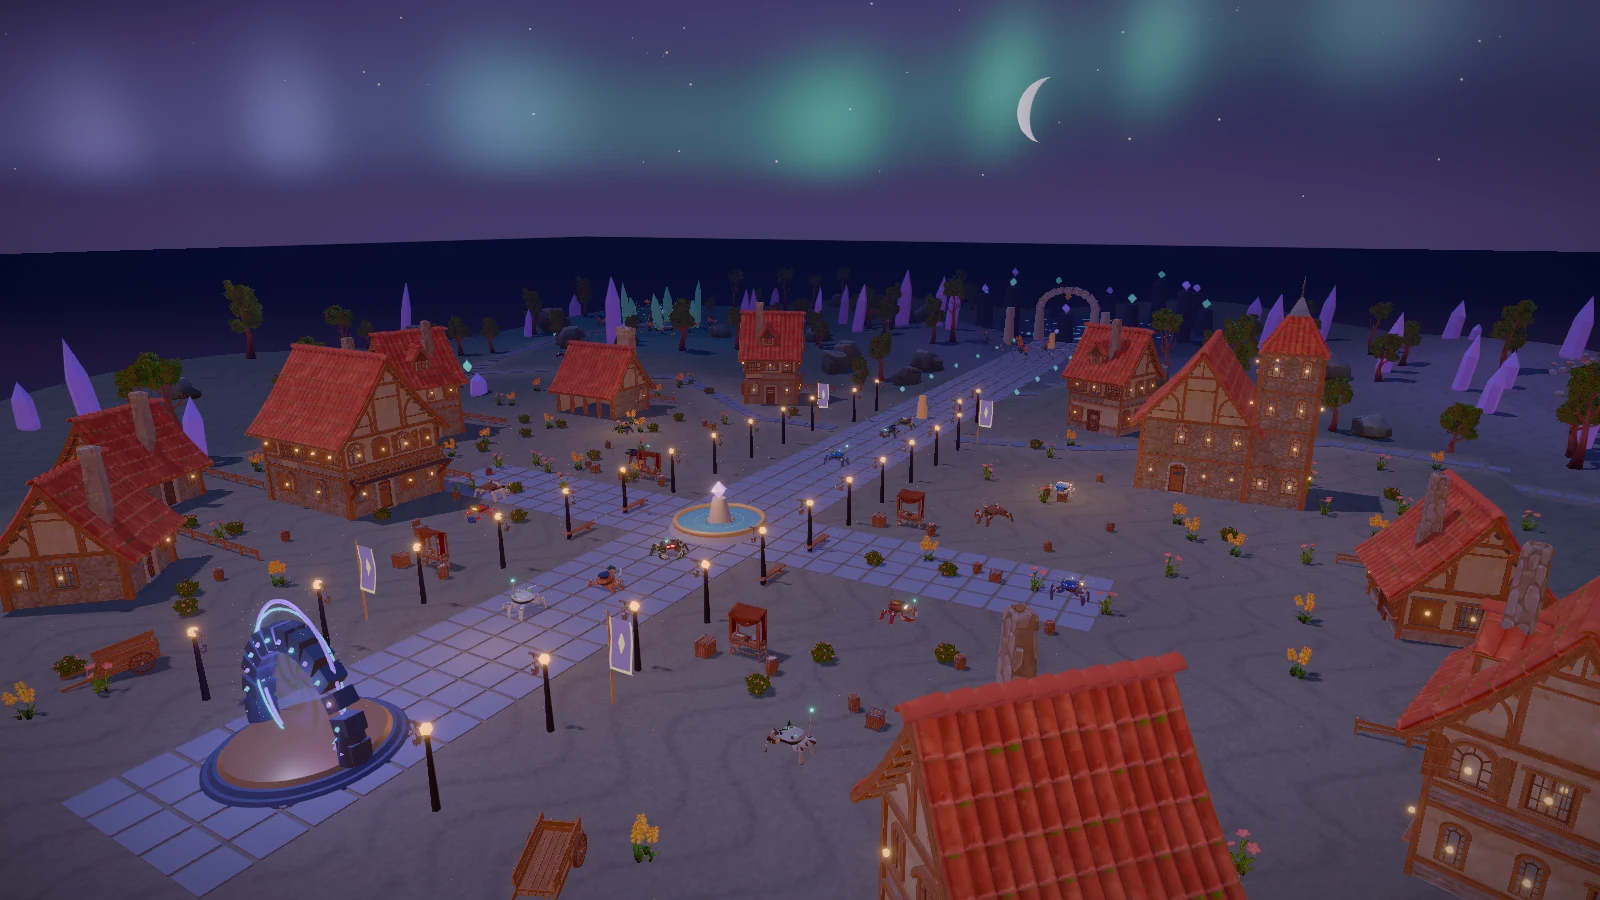
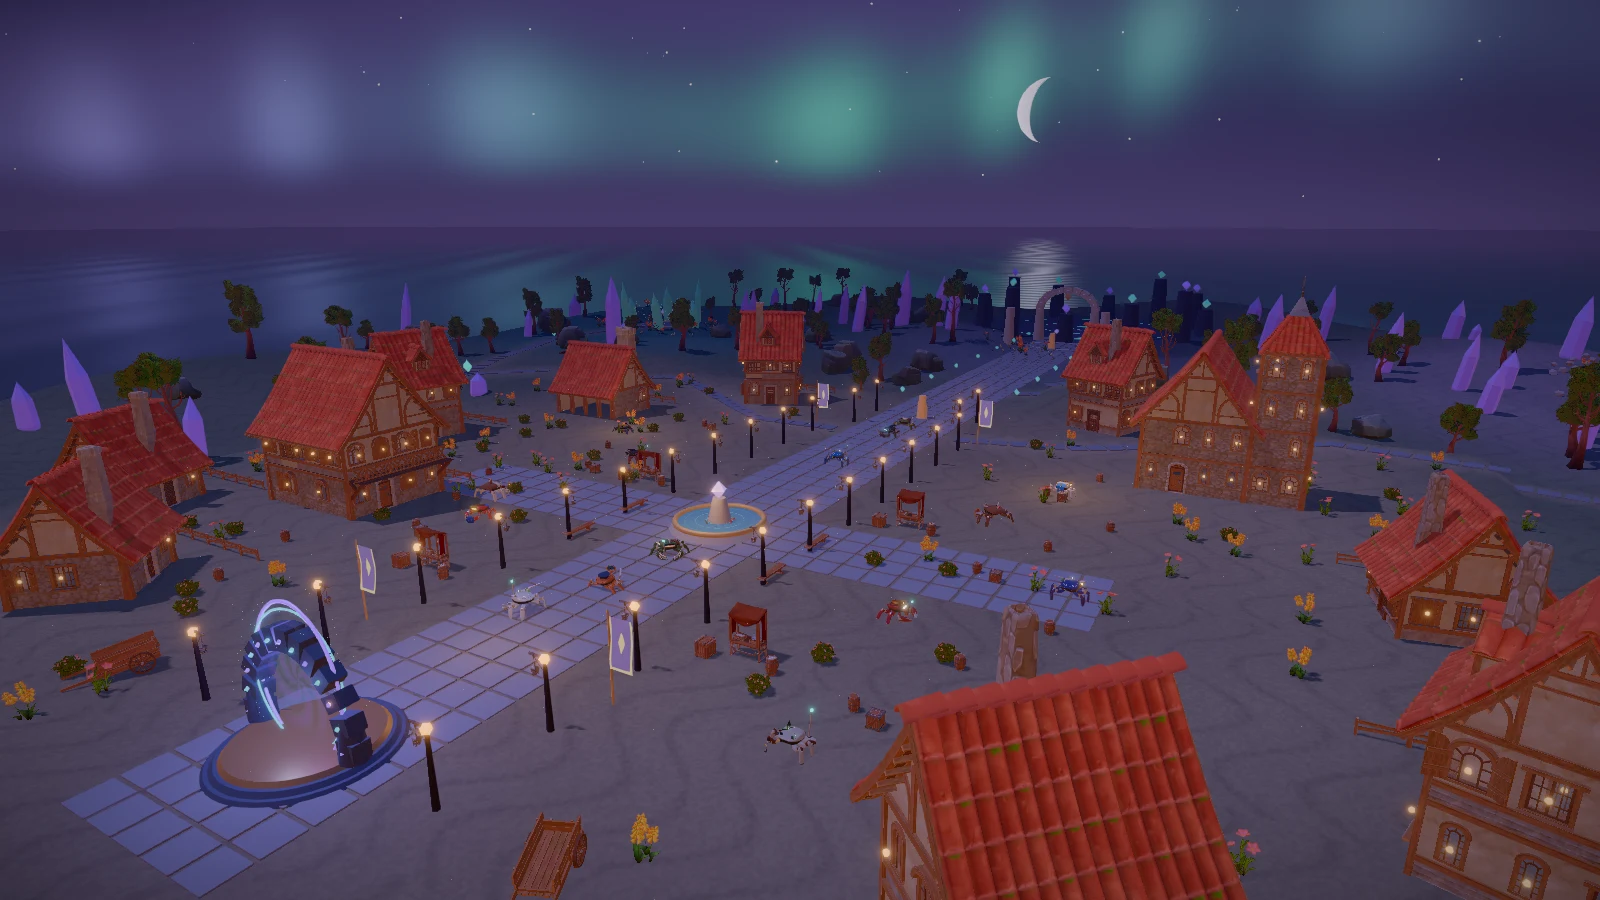
Animate the World II sea with shared sky reflections and coastal foam

Changed region(s): [[0.0, 0.2489, 1.0, 0.4356], [0.4062, 0.5911, 0.4375, 0.6222]]

diff --git a/src/game/starSea.ts b/src/game/starSea.ts
@@ -1,0 +1,63 @@
+import * as THREE from 'three';
+import {STAR_ATMOSPHERE,STAR_MOON_POSITION} from './starAtmosphere';
+
+/** One static plane: animated shading never changes the coast's collision or water level. */
+export class StarSea {
+  readonly root:THREE.Mesh;
+  private readonly time={value:0};
+  constructor(){
+    const geometry=new THREE.PlaneGeometry(4096,4096);geometry.rotateX(-Math.PI/2);
+    const material=new THREE.ShaderMaterial({
+      fog:false,uniforms:{time:this.time,moonDirection:{value:new THREE.Vector3(...STAR_MOON_POSITION).normalize()}},
+      vertexShader:/* glsl */`
+        varying vec3 world;
+        void main(){vec4 p=modelMatrix*vec4(position,1.);world=p.xyz;gl_Position=projectionMatrix*viewMatrix*p;}
+      `,
+      fragmentShader:/* glsl */`
+        varying vec3 world;
+        uniform float time;
+        uniform vec3 moonDirection;
+        ${STAR_ATMOSPHERE}
+        float coastHeight(vec2 p){
+          float r=length(vec2(p.x/115.,(p.y-10.)/140.));
+          float land=3.+sin(p.x*.08)*cos(p.y*.06)*1.8+max(0.,r-.65)*12.-smoothstep(.83,1.04,r)*21.;
+          // The finite terrain ends underwater. Its inland uplift must not create a second coast offshore.
+          return mix(land,-35.,smoothstep(1.05,1.2,r));
+        }
+        void main(){
+          vec3 view=normalize(cameraPosition-world);
+          float distanceToEye=length(cameraPosition.xz-world.xz);
+          float detail=1.-smoothstep(30.,220.,distanceToEye);
+          float p1=dot(world.xz,vec2(.8,.6))*.35-time*.5+sin(world.z*.073+time*.18)*1.3;
+          float p2=dot(world.xz,vec2(-.4,.9))*.48+time*.38+sin(world.x*.053-time*.13)*1.8;
+          float swell=dot(world.xz,vec2(.7,-.5))*.16-time*.24;
+          float wave1=detail*(1.-smoothstep(.45,2.,fwidth(p1)));
+          float wave2=detail*(1.-smoothstep(.45,2.,fwidth(p2)));
+          float broad=1.-smoothstep(.45,2.,fwidth(swell));
+          vec3 normal=normalize(vec3(sin(p1)*.012*wave1+cos(p2)*.008*wave2+sin(swell)*.007*broad,
+            1.,cos(p1)*.009*wave1+sin(p2)*.007*wave2+cos(swell)*.005*broad));
+          vec3 reflected=reflect(-view,normal);
+          float depth=max(0.,world.y-coastHeight(world.xz));
+          float shallows=1.-smoothstep(.2,7.,depth);
+          vec3 water=mix(vec3(.007,.015,.035),vec3(.016,.065,.078),shallows);
+          float fresnel=.04+.96*pow(1.-max(0.,dot(view,normal)),5.);
+          vec3 reflection=starAtmosphere(reflected,time);
+          reflection=mix(reflection,vec3(.045,.045,.09),.28);
+          vec3 color=mix(water,reflection,fresnel*.65);
+          vec3 halfLight=normalize(view+moonDirection);
+          float glint=pow(max(0.,dot(normal,halfLight)),96.);
+          color+=glint*vec3(.24,.23,.31)*(.65+.35*sin(p1+p2));
+          float front=.38+.12*sin(time*.8+world.x*.025);
+          float foam=exp(-pow((depth-front)/.38,2.))*smoothstep(0.,.12,depth);
+          foam*=.65+.35*sin(world.x*.7+world.z*.4-time*.5);
+          color+=foam*vec3(.09,.18,.17);
+          vec3 horizon=starAtmosphere(vec3(reflected.x,0.,reflected.z),time)*.8;
+          color=mix(color,horizon,smoothstep(350.,1250.,distanceToEye));
+          gl_FragColor=vec4(color,1.);
+        }
+      `,
+    });
+    this.root=new THREE.Mesh(geometry,material);this.root.name='star-island-sea';this.root.position.y=-3;
+  }
+  update(time:number){this.time.value=time;}
+}

diff --git a/src/game/world2.ts b/src/game/world2.ts
@@ -13,6 +13,7 @@ import {starGroundColor} from './world2Ground';
 import {facetedStarCrystal,starCrystalRadius} from './starCrystal';
 import {collectibleShadow} from './collectibleShadow';
 import {StarSky} from './starSky';
+import {StarSea} from './starSea';
 
 function naturalHeight(x:number,z:number){
   const r=Math.hypot(x/115,(z-10)/140),coast=THREE.MathUtils.smoothstep(r,.83,1.04);
@@ -33,6 +34,7 @@ export class HiddenWorld {
   private groundTexture:THREE.DataTexture;
   private rotations: THREE.Object3D[] = [];
   private sky: StarSky;
+  private sea: StarSea;
   private obstacles: { x:number; z:number; r:number }[] = [];
   private crystalSolids: {x:number;z:number;r:number;y0:number;y1:number}[] = [];
   private portal: StarPortal;
@@ -117,7 +119,7 @@ export class HiddenWorld {
     }
     const texture=this.groundTexture=new THREE.DataTexture(pixels,128,128);texture.wrapS=texture.wrapT=THREE.RepeatWrapping;texture.repeat.set(18,18);texture.magFilter=THREE.LinearFilter;texture.minFilter=THREE.LinearMipmapLinearFilter;texture.generateMipmaps=true;texture.anisotropy=Math.min(8,game.engine.renderer.capabilities.getMaxAnisotropy());texture.needsUpdate=true;
     const ground=new THREE.Mesh(land,new THREE.MeshStandardMaterial({map:texture,vertexColors:true,roughness:.94,metalness:.08}));ground.name='star-island-ground';ground.receiveShadow=true;this.root.add(ground);
-    const sea=new THREE.Mesh(new THREE.PlaneGeometry(1600,1600),new THREE.MeshStandardMaterial({color:'#080d24',metalness:.82,roughness:.18,emissive:'#080829',emissiveIntensity:.3}));sea.rotation.x=-Math.PI/2;sea.position.y=-3;this.root.add(sea);
+    this.sea=new StarSea();this.root.add(this.sea.root);
     const stone=new THREE.MeshStandardMaterial({color:'#3c3b57',roughness:.78,metalness:.3});
     const crystal=new THREE.MeshStandardMaterial({color:'#a57bff',emissive:'#6524c9',emissiveIntensity:1.5,metalness:.5,roughness:.2});
     const teal=new THREE.MeshStandardMaterial({color:'#b0fff1',emissive:'#26afba',emissiveIntensity:1.3,metalness:.6,roughness:.25});
@@ -247,6 +249,7 @@ export class HiddenWorld {
     if(!this.rendered)return;
     const fog=this.game.scene.fog;if(fog instanceof THREE.FogExp2){fog.color.set('#17152e');fog.density=.007;}
     this.sky.update(time,this.game.camera,this.game.engine.renderer.getPixelRatio());this.life?.update(time);
+    this.sea.update(time);
     for(const [kind,point] of Object.entries(STAR_OBJECTIVES))if(kind.startsWith('explore-')&&Math.hypot(this.game.player.unit.pos.x-point[0],this.game.player.unit.pos.z-point[1])<5)this.game.quests.bump(kind as ObjectiveKind);
     for(const memory of this.memories){
       const objective=QUESTS.w5.objectives.find(o=>o.kind===memory.kind)!;

diff --git a/src/game/starSky.ts b/src/game/starSky.ts
@@ -1,4 +1,5 @@
 import * as THREE from 'three';
+import {STAR_ATMOSPHERE,STAR_MOON_POSITION} from './starAtmosphere';
 
 /** Celestial layers stay beyond the island mist; terrain still occludes them normally. */
 export class StarSky {
@@ -14,20 +15,9 @@ export class StarSky {
       fragmentShader:/* glsl */`
         varying vec3 direction;
         uniform float time;
+        ${STAR_ATMOSPHERE}
         void main(){
-          vec3 d=normalize(direction);
-          float a=atan(d.z,d.x),t=time*.025;
-          float horizon=exp(-max(0.,d.y)*4.5);
-          vec3 color=mix(vec3(.009,.012,.04),vec3(.058,.038,.105),horizon);
-          float height=.115+.045*sin(a*3.+t)+.025*sin(a*7.-t*.7);
-          float folds=.28+.72*pow(.5+.5*sin(a*29.+sin(a*7.-t)*2.),2.);
-          float ribbon=exp(-pow((d.y-height)/.055,2.))*folds;
-          float high=exp(-pow((d.y-height-.09-.03*sin(a*5.+t*.8))/.075,2.));
-          float veil=smoothstep(.005,.065,d.y)*(1.-smoothstep(.35,.6,d.y));
-          float hue=.5+.5*sin(a*4.+t*.4);
-          color+=veil*(ribbon*mix(vec3(.045,.42,.29),vec3(.15,.12,.43),hue)*.7
-            +high*vec3(.105,.055,.2)*.35);
-          gl_FragColor=vec4(color,1.);
+          gl_FragColor=vec4(starAtmosphere(direction,time),1.);
         }
       `,
     }));
@@ -84,7 +74,7 @@ export class StarSky {
         }
       `,
     }));
-    moon.name='star-crescent-moon';moon.position.set(-150,65,-600);moon.renderOrder=1;this.root.add(moon);
+    moon.name='star-crescent-moon';moon.position.set(...STAR_MOON_POSITION);moon.renderOrder=1;this.root.add(moon);
   }
 
   update(time:number,camera:THREE.Camera,pixelRatio:number){this.time.value=time;this.pixelRatio.value=pixelRatio;this.root.position.copy(camera.position);}

diff --git a/src/game/starAtmosphere.ts b/src/game/starAtmosphere.ts
@@ -1,0 +1,19 @@
+/** Shared sky radiance for the dome and its inexpensive water reflection. */
+export const STAR_MOON_POSITION=[-150,65,-600] as const;
+export const STAR_ATMOSPHERE=/* glsl */`
+  vec3 starAtmosphere(vec3 direction,float time){
+    vec3 d=normalize(direction);
+    float a=atan(d.z,d.x),t=time*.025;
+    float horizon=exp(-max(0.,d.y)*4.5);
+    vec3 color=mix(vec3(.009,.012,.04),vec3(.058,.038,.105),horizon);
+    float height=.115+.045*sin(a*3.+t)+.025*sin(a*7.-t*.7);
+    float folds=.28+.72*pow(.5+.5*sin(a*29.+sin(a*7.-t)*2.),2.);
+    float ribbon=exp(-pow((d.y-height)/.055,2.))*folds;
+    float high=exp(-pow((d.y-height-.09-.03*sin(a*5.+t*.8))/.075,2.));
+    float veil=smoothstep(.005,.065,d.y)*(1.-smoothstep(.35,.6,d.y));
+    float hue=.5+.5*sin(a*4.+t*.4);
+    color+=veil*(ribbon*mix(vec3(.045,.42,.29),vec3(.15,.12,.43),hue)*.7
+      +high*vec3(.105,.055,.2)*.35);
+    return color;
+  }
+`;

diff --git a/docs/world2-quality-worklog.md b/docs/world2-quality-worklog.md
@@ -223,3 +223,13 @@ User requested ten hours of actual development. Start: 2026-10-15 12:56:12 UTC /
 - Goal start 2026-10-15 12:56:12 UTC; this record at 15:15 UTC is approximately 2 hours 19 minutes into the requested ten hours. Development remains active.
 
 - Published bc51db4 as READY deployment dpl_8z2aDB6phABnqe4mWui11VrMB2SC. Public native-GPU replay passes: star visibility changes 197 pixels, crescent 761, animation 167,373, and all lower-frame comparisons stay unchanged. All three sky geometries/materials dispose, no console/shader/page errors. The public world-language replay also passes fresh shore and KO/EN saved World II loading/art, narrow English layout, every island region and damaged-save fallback.
+
+## Animated island sea and true shoreline foam — 2026-10-15 15:30 UTC
+
+- The original ocean was a static dark plane. Added StarSea with small irregular surface normals, depth-dependent coastal teal, procedural sky/aurora radiance, lunar glints, shoreline foam and a softened distant horizon. Sky and sea share the same atmosphere function and moon direction; reflection is an inexpensive analytic approximation rather than a render-target mirror.
+- One fixed four-vertex/two-triangle plane remains at y=-3. No collision/terrain heights, lights, bitmap textures or per-frame geometry allocations change. Derivative filtering and distance attenuation soften small waves before they alias.
+- Rejected the first visibly regular ripple grid and reduced/warped its waves. Native captures then exposed a false offshore foam ring: the finite terrain's inland uplift formula rose again outside the island. Ocean shading now deepens the seafloor beyond the actual terrain, removing that ring. A low cliff view correctly hides narrow foam at the cliff foot; a steeper camera inspection reveals the actual shore edge.
+- tools/qa-star-sea.mjs passes actual GPU masking: 890,291 visible water pixels; 46,438 animate between frozen-time samples, with zero changes outside water/its 3-pixel filter edge. Shader foam diagnostics find 14,613 visible foam pixels at elliptical coast radii .9165–.9472 and zero offshore foam. Actual geometry/level, shore hiding and owned resource disposal pass; no shader/console/page errors. Inspected both low coast and overhead coast captures.
+- Full two-browser local-room replay passes party/PvP protection, guest weather/travel, all seven residents, death/respawn, bilingual boss safety effects and host departure. New assertions confirm sky/sea times are identical within each peer and room clocks differ by about .0011 seconds in this sample.
+- Shared sky refactor passes native visibility, animation and disposal replay. One earlier filtered comparison differed by one lower-frame pixel; added exact unfiltered isolation checks alongside bounded postfilter comparisons. Final replay has zero lower-frame differences in both filtered and unfiltered frames. Re-exported loading art with the actual common scene time; production TypeScript/Vite build and whitespace checks pass.
+- Ten-hour development remains active; approximately 2 hours 34 minutes elapsed from 2026-10-15 12:56:12 UTC. Public deployment checks remain next.
